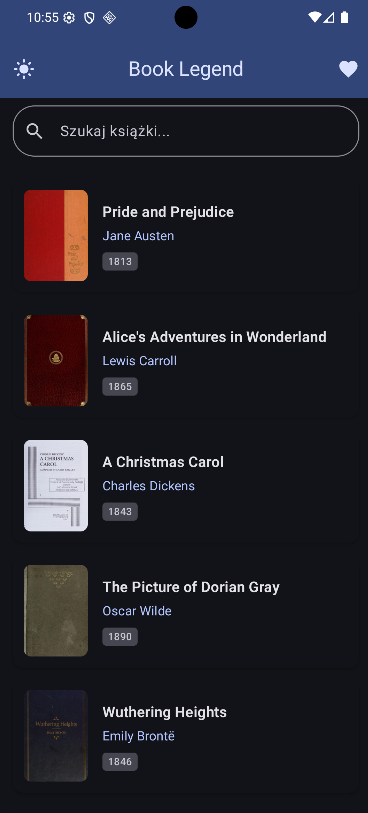
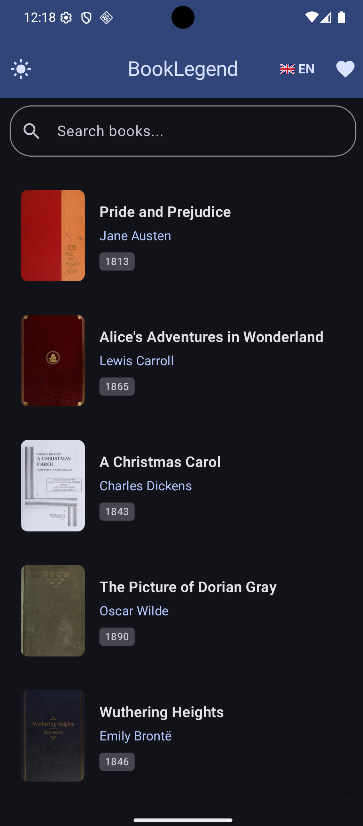
fix(ui): ensure book detail sheet and background fill full viewport height

diff --git a/app/src/main/java/com/example/booklegend/ui/screens/BookDetailScreen.kt b/app/src/main/java/com/example/booklegend/ui/screens/BookDetailScreen.kt
@@ -44,25 +44,30 @@ fun BookDetailScreen(
     val favoriteIds by viewModel.favoriteIds.collectAsState()
     val isFavorite = favoriteIds.contains(bookId)
 
-    Box(modifier = Modifier.fillMaxSize()) {
-        when (val s = state) {
-            is DetailUiState.Loading -> {
-                CircularProgressIndicator(modifier = Modifier.align(Alignment.Center))
-            }
-            is DetailUiState.Error -> {
-                Text(
-                    text = s.message,
-                    color = MaterialTheme.colorScheme.error,
-                    modifier = Modifier.align(Alignment.Center)
-                )
-            }
-            is DetailUiState.Success -> {
-                BookDetailContentModern(
-                    details = s.details,
-                    isFavorite = isFavorite,
-                    onToggleFavorite = { viewModel.toggleFavorite(bookId) },
-                    onBackClick = onBackClick
-                )
+    Surface(
+        modifier = Modifier.fillMaxSize(),
+        color = MaterialTheme.colorScheme.background
+    ) {
+        Box(modifier = Modifier.fillMaxSize()) {
+            when (val s = state) {
+                is DetailUiState.Loading -> {
+                    CircularProgressIndicator(modifier = Modifier.align(Alignment.Center))
+                }
+                is DetailUiState.Error -> {
+                    Text(
+                        text = s.message,
+                        color = MaterialTheme.colorScheme.error,
+                        modifier = Modifier.align(Alignment.Center)
+                    )
+                }
+                is DetailUiState.Success -> {
+                    BookDetailContentModern(
+                        details = s.details,
+                        isFavorite = isFavorite,
+                        onToggleFavorite = { viewModel.toggleFavorite(bookId) },
+                        onBackClick = onBackClick
+                    )
+                }
             }
         }
     }
@@ -77,7 +82,13 @@ fun BookDetailContentModern(
 ) {
     val scrollState = rememberScrollState()
 
-    Box(modifier = Modifier.fillMaxSize()) {
+    BoxWithConstraints(
+        modifier = Modifier
+            .fillMaxSize()
+            .background(MaterialTheme.colorScheme.background)
+    ) {
+        val minCardHeight = (maxHeight - 280.dp).coerceAtLeast(0.dp)
+
         // Tło na samym spodzie
         Box(
             modifier = Modifier
@@ -114,7 +125,9 @@ fun BookDetailContentModern(
             Spacer(modifier = Modifier.height(280.dp))
 
             Surface(
-                modifier = Modifier.fillMaxWidth(),
+                modifier = Modifier
+                    .fillMaxWidth()
+                    .defaultMinSize(minHeight = minCardHeight),
                 shape = RoundedCornerShape(topStart = 32.dp, topEnd = 32.dp),
                 color = MaterialTheme.colorScheme.background,
                 shadowElevation = 8.dp

diff --git a/app/src/main/java/com/example/booklegend/MainActivity.kt b/app/src/main/java/com/example/booklegend/MainActivity.kt
@@ -6,12 +6,16 @@ import androidx.activity.ComponentActivity
 import androidx.activity.compose.setContent
 import androidx.compose.animation.AnimatedContentTransitionScope
 import androidx.compose.animation.core.tween
+import androidx.compose.foundation.layout.fillMaxSize
+import androidx.compose.material3.MaterialTheme
+import androidx.compose.material3.Surface
 import androidx.compose.runtime.Composable
 import androidx.compose.runtime.CompositionLocalProvider
 import androidx.compose.runtime.LaunchedEffect
 import androidx.compose.runtime.collectAsState
 import androidx.compose.runtime.getValue
 import androidx.compose.runtime.remember
+import androidx.compose.ui.Modifier
 import androidx.compose.ui.platform.LocalConfiguration
 import androidx.compose.ui.platform.LocalContext
 import androidx.lifecycle.viewmodel.compose.viewModel
@@ -37,7 +41,12 @@ class MainActivity : ComponentActivity() {
 
             LocalizedApp(language = currentLanguage) {
                 BookLegendTheme(darkTheme = isDarkMode) {
-                    BookAppNavigation(viewModel = viewModel)
+                    Surface(
+                        modifier = Modifier.fillMaxSize(),
+                        color = MaterialTheme.colorScheme.background
+                    ) {
+                        BookAppNavigation(viewModel = viewModel)
+                    }
                 }
             }
         }
